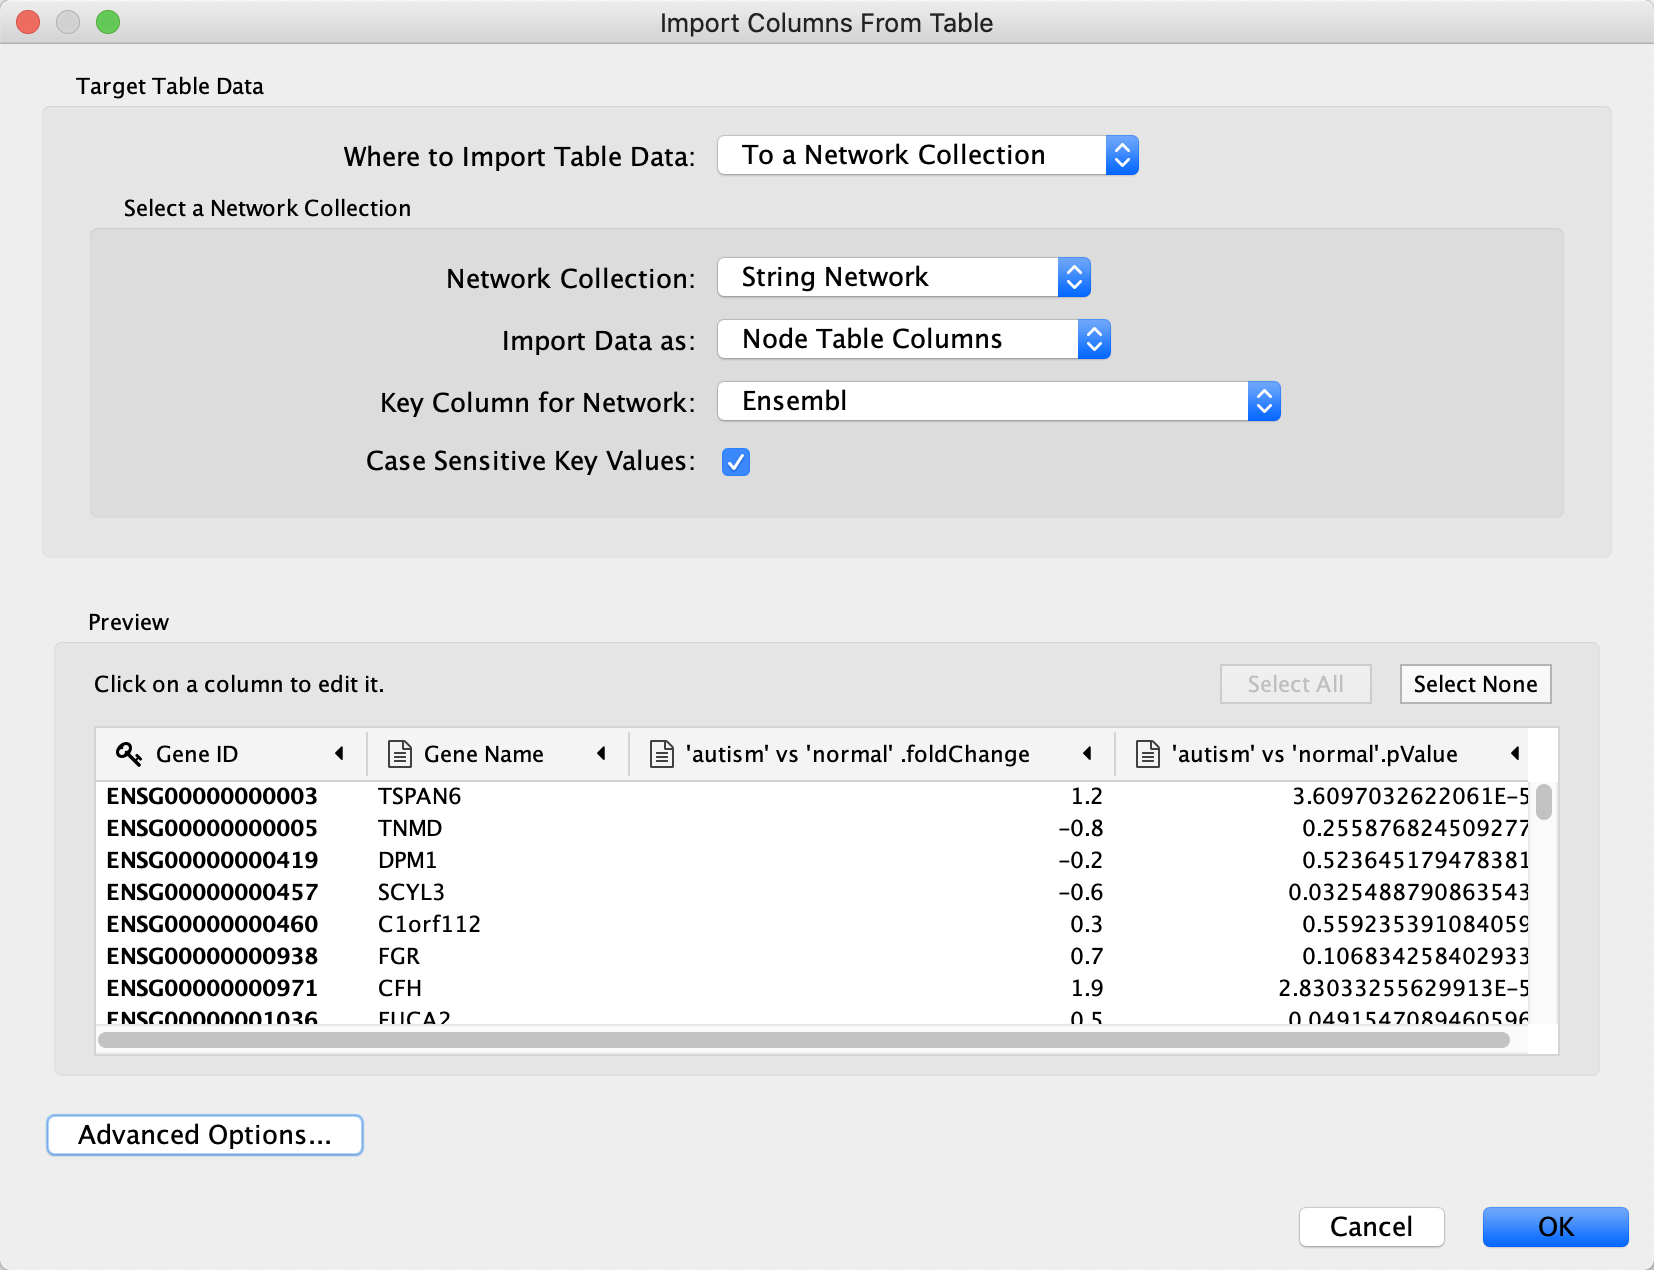
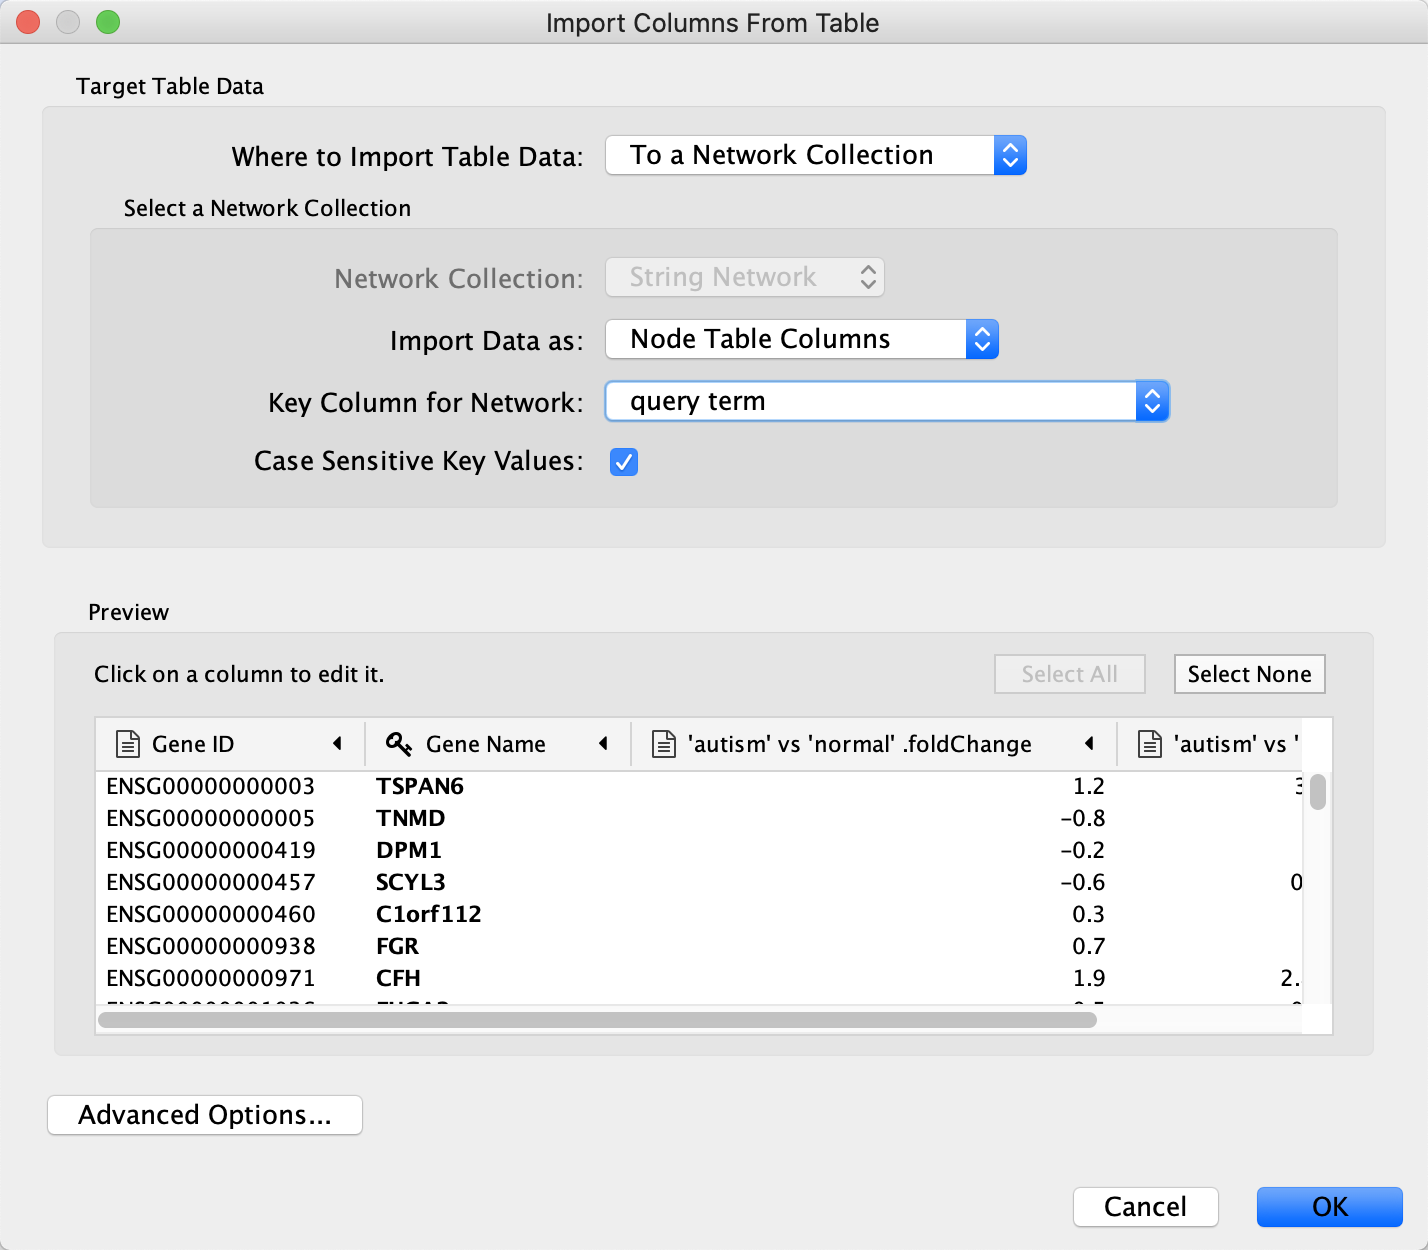
updated with screenshots etc

diff --git a/protocols/rna-seq-data-analysis/index.html b/protocols/rna-seq-data-analysis/index.html
@@ -53,7 +53,7 @@
     <p>For this tutorial, we will use a dataset comparing transcriptomic differences between autistic and normal brain. The study has been published in <a href="https://europepmc.org/article/MED/21614001">Voineagu et al.</a>, and we will get a summarized dataset with fold change and p-value from the EBI Gene Expression Atlas.</p> 
     
     <ul>
-        <li>Download the data: <a href="https://www.ebi.ac.uk/gxa/experiments/E-GEOD-30573/Results">Transcriptomic analysis of autistic brain reveals convergent molecular pathology</a>.</li>
+        <li>Download the data: <a href="https://www.ebi.ac.uk/gxa/experiments-content/E-GEOD-30573/resources/ExperimentDownloadSupplier">Transcriptomic analysis of autistic brain reveals convergent molecular pathology</a>.</li>
         <li>Open the tsv datafile in Excel. The file contains a summary at the top, and has 4 columns of data: <b>Gene ID</b>, <b>Gene Name</b>, <b>fold change</b> and <b>p-value</b>. </li>
     </ul><br /><br />
     <img class="plain" src="excel-data.png" style="height:400px">
@@ -67,8 +67,8 @@
         <li>In the drop-down for fold change column, set a filter for <b>fold change greater than 2</b>.</li>
         <li>Next, set a filter for <b>p-value less than 0.05</b>.</li>
         <li>With the two filters active, <highlight>select and copy</highlight> all the gene names for genes passing the filter.</li>
-    </ul>
-                
+    </ul><br /><br />
+  <img class="plain" src="excel-filter.png" style="height:400px">               
 </section>
                 
 <!--<section id="intro1">
@@ -85,11 +85,16 @@
     <h1>Retrieve Networks from STRING</h1>
     <p>To identify a relevant network, we will use the STRING database to find a network relevant to the list of up-regulated genes.</p>
     <ul>
-        <li>Launch Cytoscape.</li>
-        <li>In the <highlight>Network Search</highlight> bar at the top of the <highlight>Network Panel</highlight>, select <highlight>STRING protein query</highlight> from the drop-down, and paste in the list of up-regulated genes.</li>
+        <li>Launch Cytoscape. In the <highlight>Network Search</highlight> bar at the top of the <highlight>Network Panel</highlight>, select <highlight>STRING protein query</highlight> from the drop-down, and paste in the list of up-regulated genes.</li>
         <li>Open the options panel <img class="plain" src="string-options.png" style="height:30px"> and confirm you are searching <b>Homo sapiens</b> with a cutoff of <b>0.4</b> and <b>0</b> maximum additional interactors.</li>
-        <li>Click the search icon <img class="plain" src="SearchIcon.png" style="height:30px"> to search. The resulting network will load automatically.</li>
-    </ul>    
+        <li>Click the search icon <img class="plain" src="SearchIcon.png" style="height:30px"> to search. If any of the search terms are ambiguous, a <highlight>Resolve Ambiguous Terms</highlight> dialog will appear. Click <highlight>Import</highlight> to continue with the import using the default choices. The resulting network will load automatically.</li>
+    </ul>    <br /><br />
+    <div style="width:40%;float:left">
+		<img class="plain" src="string-search.png" />
+	</div>
+	<div style="width:44%;float:right">
+		<img class="plain" src="string-disambiguation.png" />
+	</div>
 </section>
                 
 <!--<section>-->
@@ -109,29 +114,29 @@
 <img class="plain" src="string-up-sub.png" style="height:600px"> 
 </section>
     
-<section id="data-integration1">
+<!--<section id="data-integration1">
     <h1>Data Integration</h1>
-    <p>Next we will import the RNA-Seq data and use them to create a visualization. Our data from EBI has <b>Ensembl</b> identifiers, so before importing the data we are going to use the ID Mapper functionality in Cytoscape to map the network to Ensembl.</p>
+    <p>Next we will import the RNA-Seq data and use them to create a visualization.</p>
     <ul>
         <li>In the <highlight>Node Table</highlight>, right-click on the column header of the <highlight>display name</highlight> column and click <highlight>Map column...</highlight>.</li>
         <li>In the <highlight>ID Mapping</highlight> interface, select <b>Human</b> as <highlight>Species</highlight>, <b>HGNC</b> as <highlight>Map from</highlight> and <b>Ensembl</b> as <highlight>To</highlight>. Click <b>OK</b> to continue.</li>
         <li><b>IDMapper</b> displays a report of how many identifiers were mapped. Make note of this information as it impacts all downstream analysis; If the mapping was unsuccessful, downstream analysis will be as well.</li>
     </ul>
-</section>
+</section>-->
     
 <section id="data-integration2">
     <h1>Data Integration</h1>
-    <p>We can now import the differential gene expression data.</p>
+    <p>Next we will import the RNA-Seq data and use them to create a visualization.</p>
     <ul>
     <li>Load the downloaded <b>E-GEOD-30573-query-results.tsv</b> file under <highlight>File</highlight> menu, select <highlight>Import &rarr; Table from File....</highlight></li>
-	<li>Select the new <b>Ensembl</b> column as the <b>Key column for Network</b> to match the correct column with the key column of the data.</li>
+	<li>Select the new <b>query term</b> column as the <b>Key column for Network</b> and select the <b>Gene Name</b> column as the key column by clicking on the header and selecting the key symbol.</li>
     <li>In <highlight>Advanced Options...</highlight>, change the <highlight>Start Import Row</highlight> to <b>4</b>, to exclude the additional information in the data file.</li>
     <li>Click <highlight>OK</highlight> to import. Two new columns of data will be added to the <highlight>Node Table</highlight>.</li>
-</ul>
-    <div style="width:45%;float:left">
+</ul><br /><br />
+    <div style="width:38%;float:left">
 		<img class="plain" src="import-advanced.png" />
 	</div>
-	<div style="width:45%;float:right">
+	<div style="width:43%;float:right">
 		<img class="plain" src="data-import.png" />
 	</div>
 </section>
@@ -141,19 +146,29 @@
     <p>Next, we will create a visualization of the imported data on the network. For more detailed information on data visualization, see the <a href="https://cytoscape.github.io/cytoscape-tutorials/protocols/mapping-data/#/">Visualizing Data</a> tutorial.</p>   
     <ul>
     <li>In the <highlight>Style</highlight> tab of the <highlight>Control Panel</highlight>, switch the style from <b>STRING style v1.5</b> to <b>default</b> in the drop-down at the top.</li>
-    <li>Change the default node shape to <b>ellipse</b> and check <b>Lock node width and height</b>.</li>
-    <li>Set the default node size to <b>50</b>.</li>
-    <li>Set the default node fill color to light gray.</li>
-    <li>Set the default <highlight>Border Width</highlight> to 2, and make the default <highlight>Border Paint</highlight> dark gray.</li>   
-    <li>For node <highlight>Fill Color</highlight>, create a continuous mapping for <highlight>'autism' vs 'normal' .foldChange</highlight>, with the ColorBrewer <b>yellow-orange-red shades</b> gradient.</li>
-    <li>Finally, for <highlight>Node Label</highlight>, set a passthrough mapping for <highlight>display name</highlight>.</li>
-    <li>Save your new visualization under <highlight>Copy Style...</highlight> in the <highlight>Options</highlight> menu of the <highlight>Style</highlight> interface, and name it <b>de genes up</b>.</li>
+    <li>Change the default node <highlight>Shape</highlight> to <b>ellipse</b> and check <highlight>Lock node width and height</highlight>.</li>
+    <li>Set the default node <highlight>Size</highlight> to <b>50</b>.</li>
+    <li>Set the default node <highlight>Fill Color</highlight> to light gray.</li>
+    <li>Set the default <highlight>Border Width</highlight> to <b>2</b>, and make the default <highlight>Border Paint</highlight> dark gray.</li>
 	</ul>
+    <img class="plain" src="style-viz1.png" style="height:450px">
 </section>     
+                
+<section>
+    <h1>Visualization</h1>
+    <ul>
+        <li>For node <highlight>Fill Color</highlight>, create a continuous mapping for <highlight>'autism' vs 'normal' .foldChange</highlight>.</li>
+        <li>Double-cllick the color mapping to open the <highlight>Continuous Mapping Editor</highlight> and click the <highlight>Current Palette</highlight>. Select the ColorBrewer <b>yellow-orange-red shades</b> gradient.</li>
+        <li>Finally, for node <highlight>Label</highlight>, set a passthrough mapping for <highlight>display name</highlight>.</li>
+        <li>Save your new visualization under <highlight>Copy Style...</highlight> in the <highlight>Options</highlight> menu of the <highlight>Style</highlight> interface, and name it <b>de genes up</b>.</li>
+    </ul>
+    <img class="plain" src="style-viz2.png" style="height:450px">
+      
+</section>
     
 <section id="ex1-up-visualization2">
      <h1>Visualization</h1>
-        <p>If we apply the <highlight>Prefuse Force Directed</highlight> layout, the network will now look something like this:</p>
+        <p>Apply the <highlight>Prefuse Force Directed</highlight> layout by clicking the <highlight>Apply Preferred Layout</highlight> <img class="plain" src="layout.png" style="height:30px"> button in the toolbar. The network will now look something like this:</p>
 	    <img class="plain" src="string-up-viz.png" style="height:650px">   
 </section>
                 
